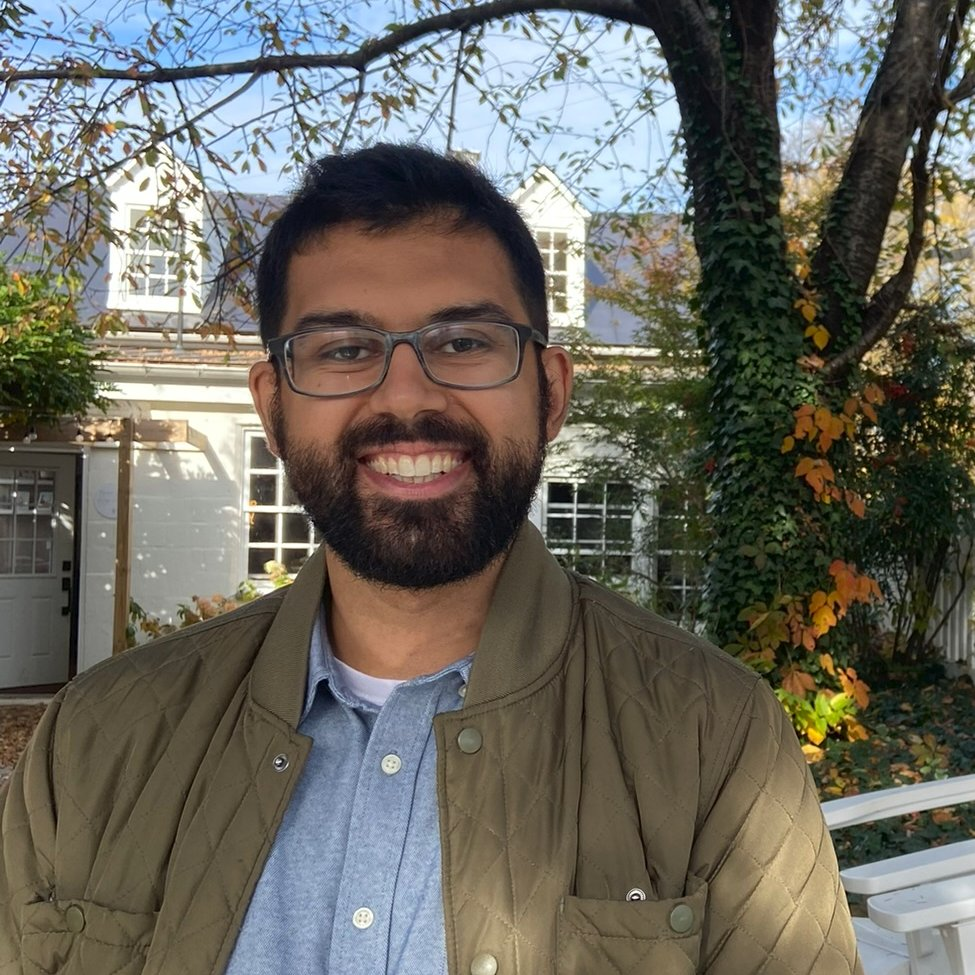
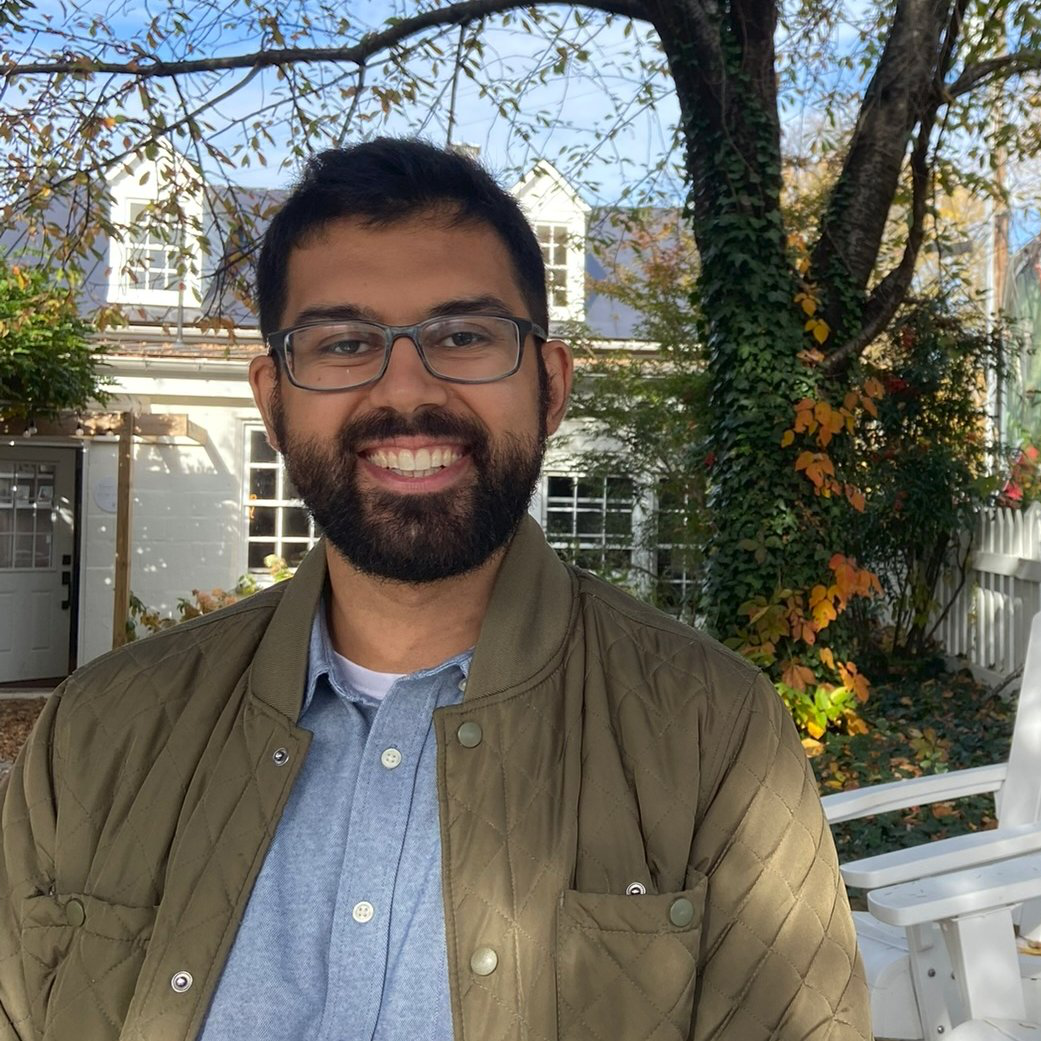
fixed profile pic

diff --git a/_pages/markdown.md b/_pages/markdown.md
@@ -20,7 +20,7 @@ redirect_from:
   * _talks/
 * Footer: _includes/footer.html
 * Static files (like PDFs): /files/
-* Profile image (can set in _config.yml): images/profile.jpeg
+* Profile image (can set in _config.yml): images/profile.png
 
 ## Tips and hints
 
